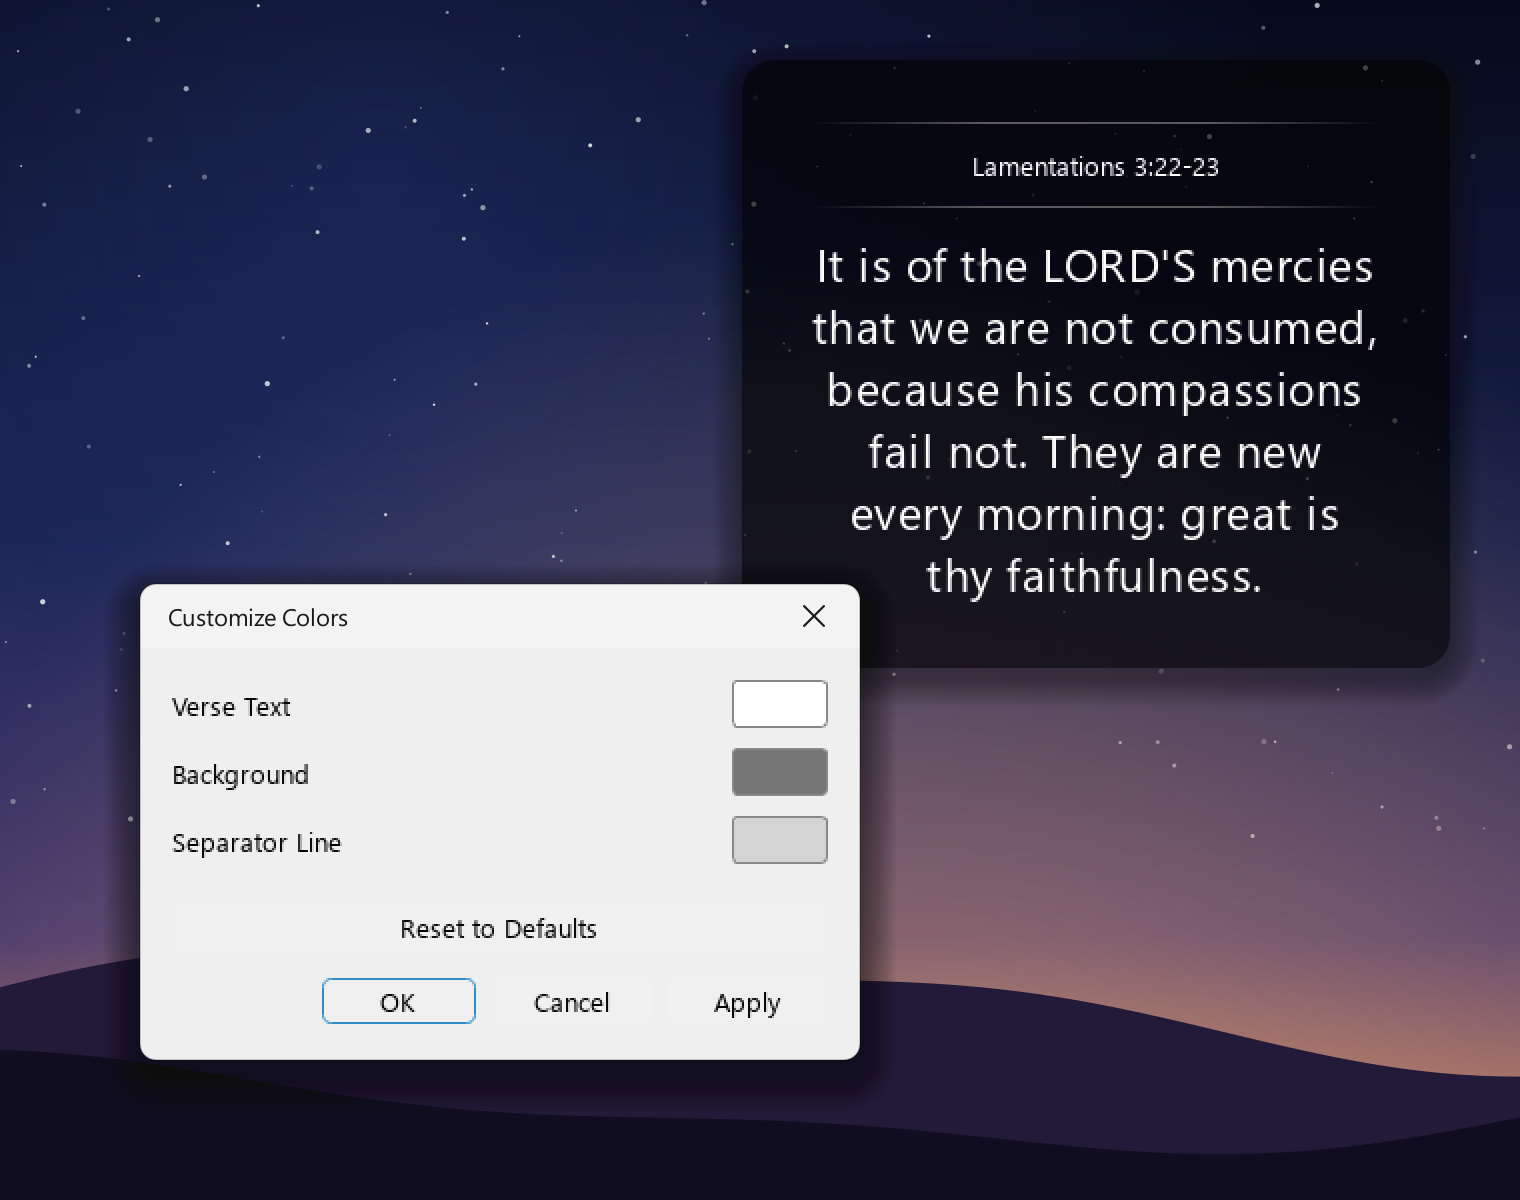
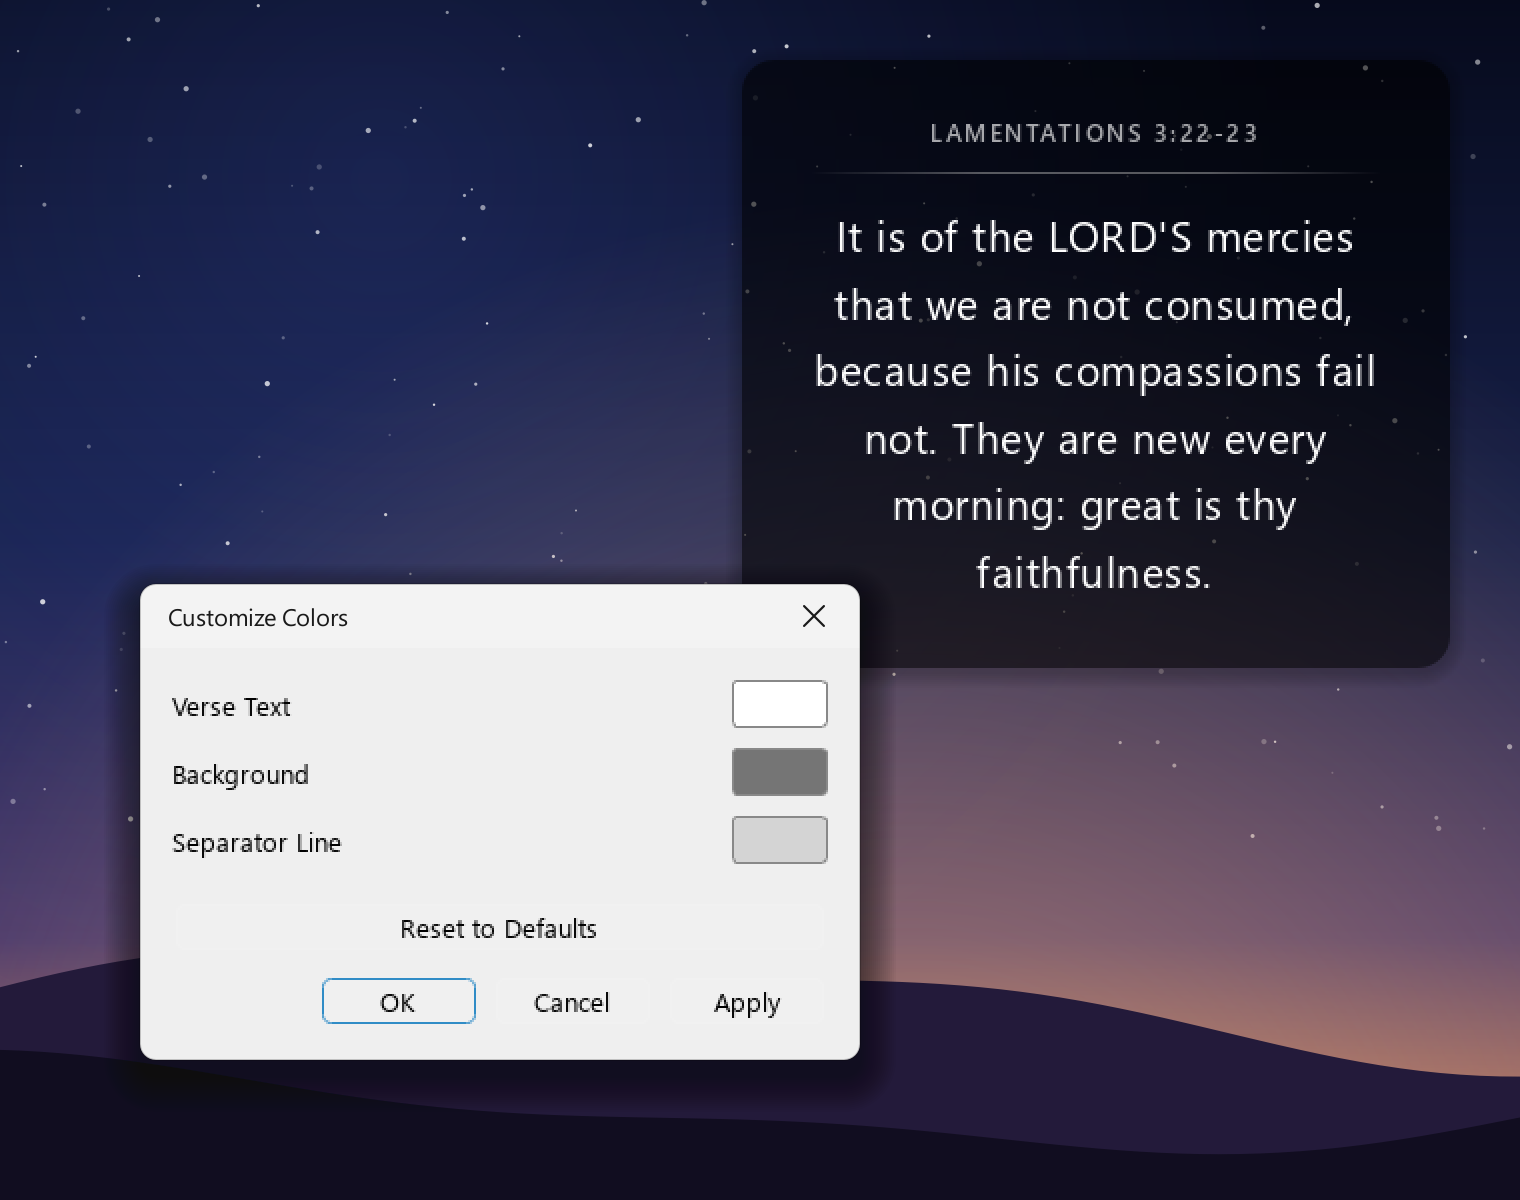
v2.0.2: match the widget to the prayer window design

Changed region(s): [[0.5257, 0.185, 0.8967, 0.4933], [0.5875, 0.0925, 0.8349, 0.1542]]

diff --git a/widget_window.py b/widget_window.py
@@ -1,5 +1,6 @@
 import sys
 import os
+import html
 import time
 import getpass
 import datetime
@@ -33,6 +34,8 @@ APP_DIR = os.path.dirname(os.path.abspath(__file__))
 RANDOM_TRANSLATION = "random"
 MODE_INTERVALS = {"hourly": 3600000, "random": 900000}  # daily is scheduled for midnight
 MIN_VERSE_PT = 10
+REF_GAP, VERSE_GAP = 12, 16  # space above and below the separator
+VERSE_LINE_HEIGHT = 120  # percent
 
 log = logging.getLogger("bible_widget")
 
@@ -346,10 +349,11 @@ class BibleWidget(QWidget):
             window._apply_colors()
 
     def _apply_label_styles(self):
-        self.ref_label.setStyleSheet(f"color: {_rgba(self._text_color)};")
+        muted = QColor(self._text_color)
+        muted.setAlphaF(self._text_color.alphaF() * 0.65)
+        self.ref_label.setStyleSheet(f"color: {_rgba(muted)};")
         self.verse_label.setStyleSheet(f"color: {_rgba(self._text_color)};")
-        for sep in self._separators:
-            sep.setStyleSheet(_separator_style(self._separator_color))
+        self.separator.setStyleSheet(_separator_style(self._separator_color))
 
     def _open_color_settings(self):
         if self._color_dialog is not None and self._color_dialog.isVisible():
@@ -573,41 +577,40 @@ class BibleWidget(QWidget):
         self.verse_font.setWeight(QFont.Medium)
         # On the font rather than in the stylesheet so text measurement includes it
         self.verse_font.setLetterSpacing(QFont.AbsoluteSpacing, 0.5)
-        self.ref_font = QFont("Segoe UI", 16)
-        self.ref_font.setWeight(QFont.Medium)
+        self.ref_font = QFont("Segoe UI", 9)
+        self.ref_font.setWeight(QFont.DemiBold)
+        self.ref_font.setCapitalization(QFont.AllUppercase)
+        self.ref_font.setLetterSpacing(QFont.AbsoluteSpacing, 1.5)
 
     def _setup_ui(self):
         layout = QVBoxLayout(self)
-        layout.setContentsMargins(50, 35, 50, 35)
-        layout.setSpacing(12)
+        layout.setContentsMargins(50, 34, 50, 34)
+        layout.setSpacing(0)
         layout.setAlignment(Qt.AlignCenter)
         # The window size is managed by _fit_text_size, not by the labels' size hints
         layout.setSizeConstraint(QLayout.SetNoConstraint)
 
-        self._separators = []
-        separator_top = QFrame()
-        separator_top.setFrameShape(QFrame.HLine)
-        separator_top.setFixedHeight(1)
-        layout.addWidget(separator_top)
-        self._separators.append(separator_top)
-
+        # Same structure as the prayer window: small-caps reference, one separator, text
         self.ref_label = QLabel()
         self.ref_label.setFont(self.ref_font)
         self.ref_label.setAlignment(Qt.AlignCenter)
         self.ref_label.setWordWrap(True)
         layout.addWidget(self.ref_label)
+        layout.addSpacing(REF_GAP)
 
-        separator = QFrame()
-        separator.setFrameShape(QFrame.HLine)
-        separator.setFixedHeight(1)
-        layout.addWidget(separator)
-        self._separators.append(separator)
+        self.separator = QFrame()
+        self.separator.setFrameShape(QFrame.HLine)
+        self.separator.setFixedHeight(1)
+        layout.addWidget(self.separator)
+        layout.addSpacing(VERSE_GAP)
 
         self.verse_label = QLabel()
         self.verse_label.setFont(self.verse_font)
+        self.verse_label.setTextFormat(Qt.RichText)
         self.verse_label.setAlignment(Qt.AlignCenter)
         self.verse_label.setWordWrap(True)
         layout.addWidget(self.verse_label)
+        self._verse_text = ""
 
         self._apply_label_styles()
 
@@ -617,8 +620,7 @@ class BibleWidget(QWidget):
         else:
             ref, text, abbr = get_random_passage(self._translation, with_translation=True, fits=self._fits)
         self._shown_translation = abbr
-        self.ref_label.setText(ref)
-        self.verse_label.setText(text)
+        self._set_passage(ref, text)
         self._quote_count += 1
         self._fit_text_size()
         if self._verbose:
@@ -659,7 +661,7 @@ class BibleWidget(QWidget):
         print("---------------------------------------", flush=True)
 
     def _copy_verse(self):
-        text = f"{self.verse_label.text()}\n{self.ref_label.text()}"
+        text = f"{self._verse_text}\n{self.ref_label.text()}"
         QApplication.clipboard().setText(text)
 
     def _show_stats(self):
@@ -762,17 +764,25 @@ class BibleWidget(QWidget):
         anim.start()
         self._snap_anim = anim
 
+    def _set_passage(self, ref, text):
+        """Show a passage. The verse label holds rich text for the line spacing,
+        so the plain text is kept for copying and measuring."""
+        self._verse_text = text
+        self.ref_label.setText(ref)
+        self.verse_label.setText(
+            f'<div style="line-height: {VERSE_LINE_HEIGHT}%;">{html.escape(text)}</div>'
+        )
+
     def _fits(self, ref, text):
         """Would this passage fit the card at the normal widget size?"""
-        self.ref_label.setText(ref)
-        self.verse_label.setText(text)
+        self._set_passage(ref, text)
         return self._fit_text_size(allow_grow=False)
 
     def _set_font_size(self, size, fw):
         """Apply a verse font size; returns the height the reference and verse need."""
         self.verse_font.setPointSize(size)
         self.verse_label.setFont(self.verse_font)
-        self.ref_font.setPointSize(max(10, min(28, size // 2 + 2)))
+        self.ref_font.setPointSize(max(9, min(16, size // 2)))
         self.ref_label.setFont(self.ref_font)
         return self.verse_label.heightForWidth(fw) + self.ref_label.heightForWidth(fw)
 
@@ -787,7 +797,7 @@ class BibleWidget(QWidget):
         base_w, base_h = self._base_size
         screen_height = screen.geometry().height()
         base_size = max(14, min(60, screen_height // 30))
-        total_len = len(self.verse_label.text()) + len(self.ref_label.text())
+        total_len = len(self._verse_text) + len(self.ref_label.text())
         if total_len > 500:
             size = int(base_size * 0.55)
         elif total_len > 300:
@@ -806,8 +816,8 @@ class BibleWidget(QWidget):
         self.verse_label.setFixedWidth(fw)
         self.ref_label.setFixedWidth(fw)
 
-        # Two separators plus the spacing between the four layout items
-        chrome = margins.top() + margins.bottom() + 2 + 3 * layout.spacing()
+        # The separator and the gaps around it
+        chrome = margins.top() + margins.bottom() + REF_GAP + 1 + VERSE_GAP
         available_h = base_h - chrome
 
         need = self._set_font_size(size, fw)

diff --git a/CHANGELOG.md b/CHANGELOG.md
@@ -1,5 +1,13 @@
 # Changelog
 
+## v2.0.2 (2026-10-30)
+
+### Changed
+- **The widget now matches the prayer window**: the reference is shown in small caps above a single fading line, and the verse has more line spacing (the extra line above the reference is gone). On the real screen, 0 of 30 verse changes leave stale pixels and 0 of 300 passages are cut off, same as v2.0.1. The extra spacing shortens slightly more long passages to fit: 59 of 300, up from 44, for an average of 1.84 verses instead of 1.92.
+- **README screenshots** updated to the new look.
+
+---
+
 ## v2.0.1 (2026-10-30)
 
 ### Fixed
